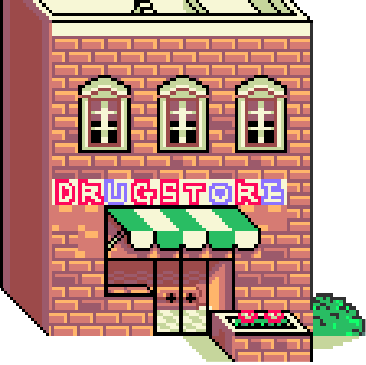
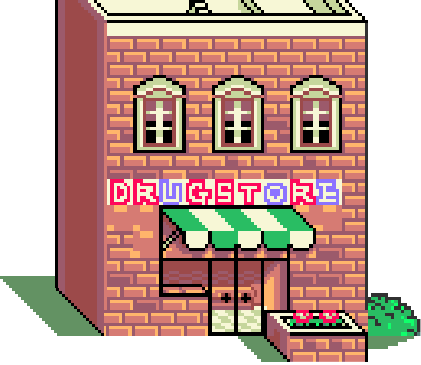
TODO: Ending screen & auxilia

diff --git a/index.js b/index.js
@@ -210,6 +210,7 @@ const images = {
   redlightImage: createImage("./img/redlight.png"),
   panelImage: createImage("./img/panel.png"),
   carImage: createImage("./img/car.png"),
+  car2Image: createImage("./img/car2.png"),
   pizzaImage: createImage("./img/pizza.png"),
   drugstoreImage: createImage("./img/drugstore.png"),
   camionetteImage: createImage("./img/camionette.png"),
@@ -221,7 +222,9 @@ const images = {
   trainImage: createImage("./img/train.png"),
   auxiliaImage: createImage("./img/auxilia.png"),
   greenRoad3Image: createImage("./img/greenRoad3.png"),
-  lastRoadImage: createImage("./img/lastRoad.png")
+  lastRoadImage: createImage("./img/lastRoad.png"),
+  letterBoxImage: createImage("./img/letter_box.png"),
+  barriereImage: createImage("./img/barriere.png")
 };
 
 // Initialize player and other elements
@@ -270,41 +273,23 @@ function init() {
     new GenericObject({ x: -100, y: -22, image: images.trainImage}),
     new GenericObject({ x: 668, y: 380, image: images.roadMiddleImage }),         // Image 1st trou milieu
     new GenericObject({ x: 1620, y: 380, image: images.roadMiddleImage }),        // Image 2nd trou milieu
-
-
-    
-    
+  
     new GenericObject({ x: 0, y: 380, image: images.firstRoadSurface }),          // Trottoir 1s platform
     new GenericObject({ x: images.roadBackgroundImage.width + 98, y: 380, image: images.roadBackgroundImage }),  // Trottoir 2nd platform
     new GenericObject({ x: images.roadBackgroundImage.width * 2 + 260, y: 380, image: images.lastRoadBackgroundImage, }), // Trottoir 3rd platform 
-
 
     new GenericObject({ x: 30, y: 0, image: images.shopImage }),
     new GenericObject({ x: 190, y: 145, image: images.bikeImage }),
     new GenericObject({ x: 10, y: 50, image: images.treeImage }),
     new GenericObject({ x: 550, y: 75, image: images.treeImage }),
     new GenericObject({ x: 670, y: 50, image: images.carImage }),
-    new GenericObject({ x: 2070, y: 50, image: images.carImage }),
+
     new GenericObject({ x: 830, y: -20, image: images.pizzaImage }),
-    new GenericObject({ x: 1500, y: -119, image: images.drugstoreImage }),
-
+    new GenericObject({ x: 1450, y: -119, image: images.drugstoreImage }),
+  
     new GenericObject({ x: 120, y: 220, image: images.grassImage }),
-    new GenericObject({ x: 320, y: 220, image: images.grassImage }),
-    new GenericObject({ x: 400, y: 300, image: images.grassImage }),
-    new GenericObject({ x: 700, y: 200, image: images.grassImage }),
-    new GenericObject({ x: 900, y: 220, image: images.grassImage }),
-    new GenericObject({ x: 1100, y: 230, image: images.grassImage }),
-    new GenericObject({ x: 1300, y: 235, image: images.grassImage }),
-
     new GenericObject({ x: 0, y: 300, image: images.grassImage }),
-    new GenericObject({ x: 200, y: 300, image: images.grassImage }),
-    new GenericObject({ x: 400, y: 300, image: images.grassImage }),
-    new GenericObject({ x: 600, y: 300, image: images.grassImage }),
-    new GenericObject({ x: 800, y: 300, image: images.grassImage }),
-    new GenericObject({ x: 1000, y: 300, image: images.grassImage }),
-    new GenericObject({ x: 1200, y: 300, image: images.grassImage }),
-    new GenericObject({ x: 1400, y: 300, image: images.grassImage }),
-    new GenericObject({ x: 1640, y: 300, image: images.grassImage }),
+
 
     new GenericObject({ x: 620, y: 257, image: images.redlightImage }),
     new GenericObject({ x: 740, y: 210, image: images.panelImage }),
@@ -312,9 +297,31 @@ function init() {
     new GenericObject({ x: 1910, y: -28, image: images.houseImage}),
     new GenericObject({ x: 1600, y: 300, image: images.stopImage}),
     new GenericObject({ x: 100, y: 220, image: images.bandeauImage}),
-    new GenericObject({x: 2820, y: -20, image: images.auxiliaImage})
+    new GenericObject({x: 2820, y: -20, image: images.auxiliaImage}),
+    new GenericObject({ x: 2670, y: 150, image: images.car2Image }),
+    new GenericObject({ x: 2480, y: 150, image: images.car2Image }),
+    new GenericObject({ x: 2570, y: 300, image: images.barriereImage}),
+    new GenericObject({ x: 2770, y: 300, image: images.barriereImage}),
+    new GenericObject({ x: 2940, y: 285, image: images.letterBoxImage }),
+    new GenericObject({ x: 40, y: 290, image: images.redFlowerImage}),
+    new GenericObject({ x: 240, y: 320, image: images.flowerImage}),
+    new GenericObject({ x: 400, y: 280, image: images.redFlowerImage}),
+    new GenericObject({ x: 680, y: 280, image: images.flowerImage}),
+    new GenericObject({ x: 1000, y: 320, image: images.redFlowerImage}),
+    new GenericObject({ x: 680, y: 280, image: images.flowerImage}),
+    new GenericObject({ x: 1225, y: 275, image: images.redFlowerImage}),
+    new GenericObject({ x: 1450, y: 310, image: images.flowerImage}),
+    new GenericObject({ x: 1625, y: 275, image: images.redFlowerImage}),
+    new GenericObject({ x: 1675, y: 320, image: images.flowerImage}),
+    new GenericObject({ x: 1925, y: 275, image: images.redFlowerImage}),
+    new GenericObject({ x: 1825, y: 325, image: images.flowerImage}),
+    new GenericObject({ x: 2225, y: 275, image: images.redFlowerImage}),
+    new GenericObject({ x: 2025, y: 345, image: images.flowerImage}),
+    new GenericObject({ x: 2315, y: 285, image: images.redFlowerImage}),
+    new GenericObject({ x: 2485, y: 315, image: images.flowerImage}),
+ 
   
-  ];
+  ]
 
   foregroundObjects = [
     new GenericObject({ x: 0, y: 456, image: images.greenRoad1 }),                // Route verte 1st platform
@@ -327,6 +334,7 @@ function init() {
     new GenericObject({ x: 60, y: 460, image: images.palmierImage }),
     new GenericObject({ x: 200, y: 520, image: images.palmierImage }),
     new GenericObject({ x: 520, y: 510, image: images.palmierImage }),
+
 
   ];
 
